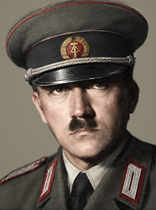
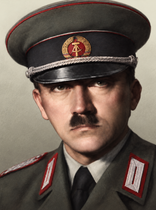
Replace GRU portrait with direct crop of latest supplied image

diff --git a/tools/RED_GERMANY.md b/tools/RED_GERMANY.md
@@ -148,8 +148,8 @@ event GRU_reconstruction.97 GRU
 
 人物定义位于`common/characters/GRU_red_germany_characters.txt`。名字和完整背景追加于`localisation/simp_chinese/GRU_red_germany_l_simp_chinese.yml`，按用户原文保留六段背景与出生信息；使用KR的黄色字段名、灰色正文，末尾引语单独使用原生`§R`红色（基础界面为RGB255/50/50）。文案是本模组架空设定，不是历史资料校订。
 
-头像注册于`interface/GRU_red_germany_portraits.gfx`，成品为`gfx/leaders/GRU/GRU_adolf_hitler.png`，156×210、RGB、不透明PNG，符合已安装KR德国人物头像格式。使用用户最后指定的彩色成图`9ab7020ac0003c15c67e4cd7b47d3e48.png`，按其“直接裁切，然后处理一下背景”要求，以Pillow裁去底部姓名/旗帜栏，保留原人物像素与军装帽徽，沿轮廓整理为灰褐色背景并等比例缩小。未生成或重绘面容、军装、徽记；源图人物身份及来源未作历史认证。此图替代此前黑白裁切稿；没有使用56之路资产。
+头像注册于`interface/GRU_red_germany_portraits.gfx`，成品为`gfx/leaders/GRU/GRU_adolf_hitler.png`，156×210、RGB、不透明PNG，符合已安装KR德国人物头像格式。当前使用用户最后指定的`codex-clipboard-205bd0e4-2cf1-4cfd-951b-eff1ad88ad71.png`，按“裁剪一下直接用”的要求，仅以Pillow等比例裁切、缩放，保留该图原背景、面容、军装、帽徽、光照和颜色。未另做背景替换或生成式处理；源图人物身份及来源未作历史认证。没有使用56之路资产。
 
-原图、轮廓遮罩、导出脚本、尺寸/裁切参数和468×630预览保存在本地`output/GRU_hitler_portrait_20261007_selected/`，不计入上传构建。此前黑白草稿仍留在`output/GRU_hitler_portrait_20261007/`；此前ImageGen请求没有取得生成结果。本轮仅接入测试版开发目录，未重建上传目录、未推送GitHub；实际人物任命、头像和长介绍显示留给用户进游戏测试。
+当前原图、导出脚本、尺寸/裁切参数和468×630预览保存在本地`output/GRU_hitler_portrait_20261007_direct_crop/`，不计入上传构建。此前灰褐背景稿留在`output/GRU_hitler_portrait_20261007_selected/`，黑白草稿留在`output/GRU_hitler_portrait_20261007/`。本轮仅替换测试版开发目录头像，未重建上传目录、未推送GitHub；人物逻辑和介绍保持原有实现，实际显示留给用户进游戏测试。
 
 人物/招募/晋升参考KR `common/characters/AZR characters.txt`、`history/countries/AZR - Azerbaijan.txt`和`common/scripted_effects/01_Annexation effects.txt`；头像注册参考KR `interface/kaiserreich/portraits/GER_portraits.gfx`；介绍格式参考KR简中德国人物介绍及现有季诺维也夫背景覆盖。

diff --git a/MOD制作日志.md b/MOD制作日志.md
@@ -2,6 +2,12 @@
 
 最后更新：2026-10-07
 
+## 2026-10-07 — 按最新成图直接裁切替换红德头像
+
+- 用户提供`codex-clipboard-205bd0e4-2cf1-4cfd-951b-eff1ad88ad71.png`并要求“裁剪一下直接用”。使用Pillow对1215×1295原图等比例裁切、Lanczos缩放为156×210 RGB PNG，保留原有背景、面容、军装、帽徽与颜色，没有重新生成或改背景。覆盖开发版`gfx/leaders/GRU/GRU_adolf_hitler.png`，人物任命、介绍及原sprite引用不变。
+- 原图、裁切参数、导出脚本及468×630预览留在`output/GRU_hitler_portrait_20261007_direct_crop/`。已查看游戏原生尺寸和放大预览；帽子两侧保留、面部清晰、画面无拉伸，PNG可正常解码，开发文件与导出稿SHA-256一致。RHoiScribe头像注册检查绿色；repair仅dry_run、未写入，117项既有建议无本次头像修复项；git diff --check通过。独立只读核对确认角色→sprite→PNG引用一致；未新增或重复运行路线逻辑测试。
+- 更新红德维护说明并提交本地Git；仅开发目录，上传目录与GitHub未同步。按用户约定不启动游戏，实际游戏内显示由用户测试。
+
 ## 2026-10-07 — 红德后续路线人物、介绍与指定头像
 
 - 按用户选择，正常民族派大选及`.97`进入希特勒线时，在当前国家作用域招募并晋升`GRU_adolf_hitler`为共产主义领袖，兼容原始GRU的动态标签。招募与晋升单独判断人物和路线状态；重复调试不重复发奖励、不重载新树、不清空国策，叛军和重建内战不任命。无新增特质或其他数值奖励，前一轮已提交的`.97`结算后换树修复保留。
